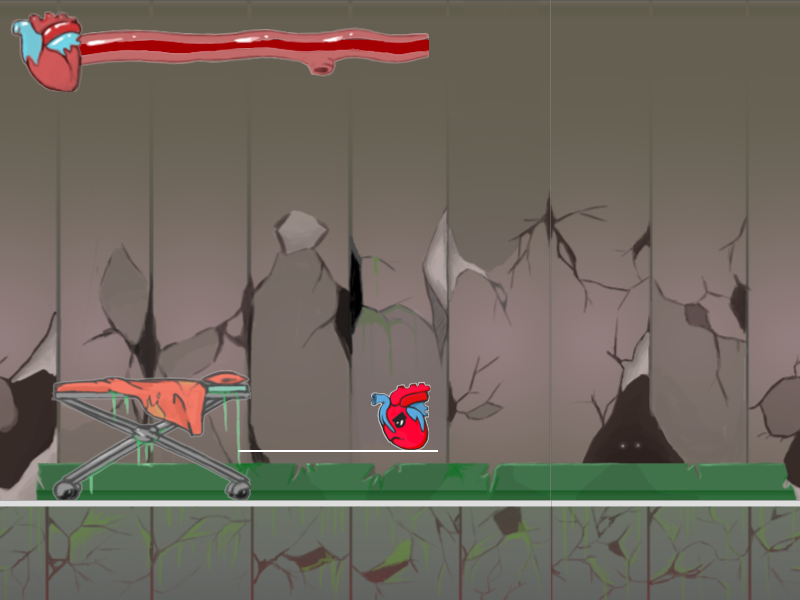
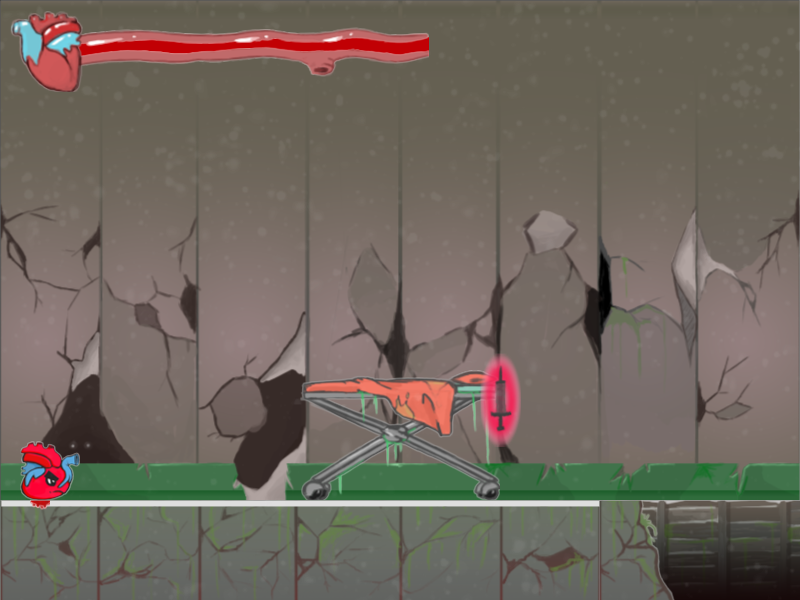
Do commit

diff --git a/src/PlayerObject.cpp b/src/PlayerObject.cpp
@@ -211,16 +211,25 @@ void PlayerObject::update()
 			
 			if(sqrtf(dot(ab, ab)) < 50.0f)
 			{
-				HealthBar::getHealthBar()->addHealth(20.0);
-				
-				for (auto it = parent->gameObjects.begin(); it!=parent->gameObjects.end(); it++) 
+				if(hp->health)
 				{
-					if (*it == hp) 
+					HealthBar::getHealthBar()->addHealth(20.0);
+				
+					for (auto it = parent->gameObjects.begin(); it!=parent->gameObjects.end(); it++) 
 					{
-						parent->gameObjects.erase(it);
-						delete hp;
-						break;
+						if (*it == hp) 
+						{
+							parent->gameObjects.erase(it);
+							delete hp;
+						
+							break;
+						}
 					}
+				}
+				else
+				{
+					hp->remaining = 6.0;
+					HealthBar::getHealthBar()->changeHealth = false;
 				}
 			}
 		}
@@ -250,27 +259,30 @@ void PlayerObject::update()
 
 	if (enemyCollidable) 
 	{
-		for (auto it = parent->gameObjects.begin(); it!=parent->gameObjects.end(); it++) 
+		if(HealthBar::getHealthBar()->changeHealth)
 		{
-			Enemy* obj = dynamic_cast<Enemy*>(*it);
+			for (auto it = parent->gameObjects.begin(); it!=parent->gameObjects.end(); it++) 
+			{
+				Enemy* obj = dynamic_cast<Enemy*>(*it);
 
-			if (!obj) continue;
+				if (!obj) continue;
 
-			if (boundingBoxLeft() < obj->left()) continue;
-			if (boundingBoxRight() > obj->right()) continue;
-			if (boundingBoxBottom() < obj->top()) continue;
-			if (boundingBoxTop() > obj->bottom()) continue;
+				if (boundingBoxLeft() < obj->left()) continue;
+				if (boundingBoxRight() > obj->right()) continue;
+				if (boundingBoxBottom() < obj->top()) continue;
+				if (boundingBoxTop() > obj->bottom()) continue;
 
-			enemyCollidableCoolDown = 3;
-			enemyCollidable = false;
+				enemyCollidableCoolDown = 3;
+				enemyCollidable = false;
 
-			velocity = velocity * -1.2f;
-			velocity = velocity + obj->velocity;
+				velocity = velocity * -1.2f;
+				velocity = velocity + obj->velocity;
 
-			position += velocity * DELTA_TIME;	
+				position += velocity * DELTA_TIME;	
 			
-			HealthBar::getHealthBar()->addHealth(-20);
-			break;
+				HealthBar::getHealthBar()->addHealth(-20);
+				break;
+			}
 		}
 	}
 		else

diff --git a/src/HealthPack.cpp b/src/HealthPack.cpp
@@ -2,31 +2,64 @@
 
 using namespace sf;
 
+PostFX HealthPack::effect;
 Image HealthPack::healthPack;
+Image HealthPack::uberPack;
 bool HealthPack::loaded = false;
 
-HealthPack::HealthPack(GameScreen *gs, Vector2f pos)
+HealthPack::HealthPack(GameScreen *gs, Vector2f pos, bool h = true)
 {
 	position = pos;
 	parent = gs;
+	health = h;
+	remaining = FLT_MAX;
 	
 	if(!loaded)
 	{
 		healthPack.LoadFromFile("assets/Health.png");
+		uberPack.LoadFromFile("assets/Uber.png");
+		effect.LoadFromFile("assets/effect.glsl");
 		loaded = true;
 	}
 	
-	sprite.SetImage(healthPack);
+	sprite.SetImage(h ? healthPack : uberPack);
 	sprite.SetCenter(healthPack.GetWidth() / 2, healthPack.GetHeight() / 2);
 }
 
 void HealthPack::update()
 {
-	
+	if(!health)
+	{
+		remaining -= DELTA_TIME;
+		
+		if(remaining < 0.0)
+		{
+			HealthBar::getHealthBar()->changeHealth = true;
+			
+			for (auto it = parent->gameObjects.begin(); it!=parent->gameObjects.end(); it++) 
+			{
+				if (*it == this) 
+				{
+					parent->gameObjects.erase(it);
+					delete this;
+					return;
+				}
+			}
+		}
+	}
 }
 
 void HealthPack::draw()
 {
-	sprite.SetPosition(parent->normaliseCoords(position));
-	window->Draw(sprite);
+	if(remaining > 6.0)
+	{
+		sprite.SetPosition(parent->normaliseCoords(position));
+		window->Draw(sprite);
+	}
+	else
+	{
+		effect.SetTexture("framebuffer", NULL);
+		window->Draw(effect);
+	}
 }
+

diff --git a/src/ObjectFactory.cpp b/src/ObjectFactory.cpp
@@ -86,7 +86,12 @@ void ObjectFactory::loadFile(string filename, GameScreen* gs)
 			}
 			
 		if (strcmp("healthpack", name) == 0) {
-			gs->gameObjects.push_back(new HealthPack(gs, Vector2f(x, y)));
+			gs->gameObjects.push_back(new HealthPack(gs, Vector2f(x, y), true));
+			continue;
+			}
+			
+		if (strcmp("uberpack", name) == 0) {
+			gs->gameObjects.push_back(new HealthPack(gs, Vector2f(x, y), false));
 			continue;
 			}
 		}

diff --git a/src/HealthBar.cpp b/src/HealthBar.cpp
@@ -43,6 +43,7 @@ HealthBar::HealthBar(Vector2f pos, int _maxHealth)
 		images.push_back(img);
 	}
 
+	changeHealth = true;
 }
 
 HealthBar* HealthBar::createHealthBar(Vector2f pos, int _maxHealth) 
@@ -65,6 +66,11 @@ void HealthBar::setHealthTo(float h)
 
 void HealthBar::addHealth(float h)
 {
+	if(!changeHealth)
+	{
+		return;
+	}
+
 	targetHealth = currentHealth + h;
 }
 

diff --git a/src/HealthPack.h b/src/HealthPack.h
@@ -6,12 +6,16 @@
 class HealthPack : public GameObject
 {
 	public:
-		HealthPack(GameScreen *gs, sf::Vector2f pos);
+		HealthPack(GameScreen *gs, sf::Vector2f pos, bool h);
 		void update();
 		void draw();
 		
 		static sf::Image healthPack;
+		static sf::Image uberPack;
+		static sf::PostFX effect;
 		static bool loaded;
+		bool health;
+		float remaining;
 };
 
 #endif

diff --git a/src/HealthBar.h b/src/HealthBar.h
@@ -19,6 +19,7 @@ class HealthBar : public GameScreen
 		float maxHealth;
 		float currentHealth;
 		float targetHealth;
+		bool changeHealth;
 
 		static HealthBar* ref;
 

diff --git a/src/Game.h b/src/Game.h
@@ -5,6 +5,7 @@
 #include <cmath>
 #include <cstddef>
 #include <iostream>
+#include <cfloat>
 #include <vector>
 
 #include <SFML/Graphics.hpp>
